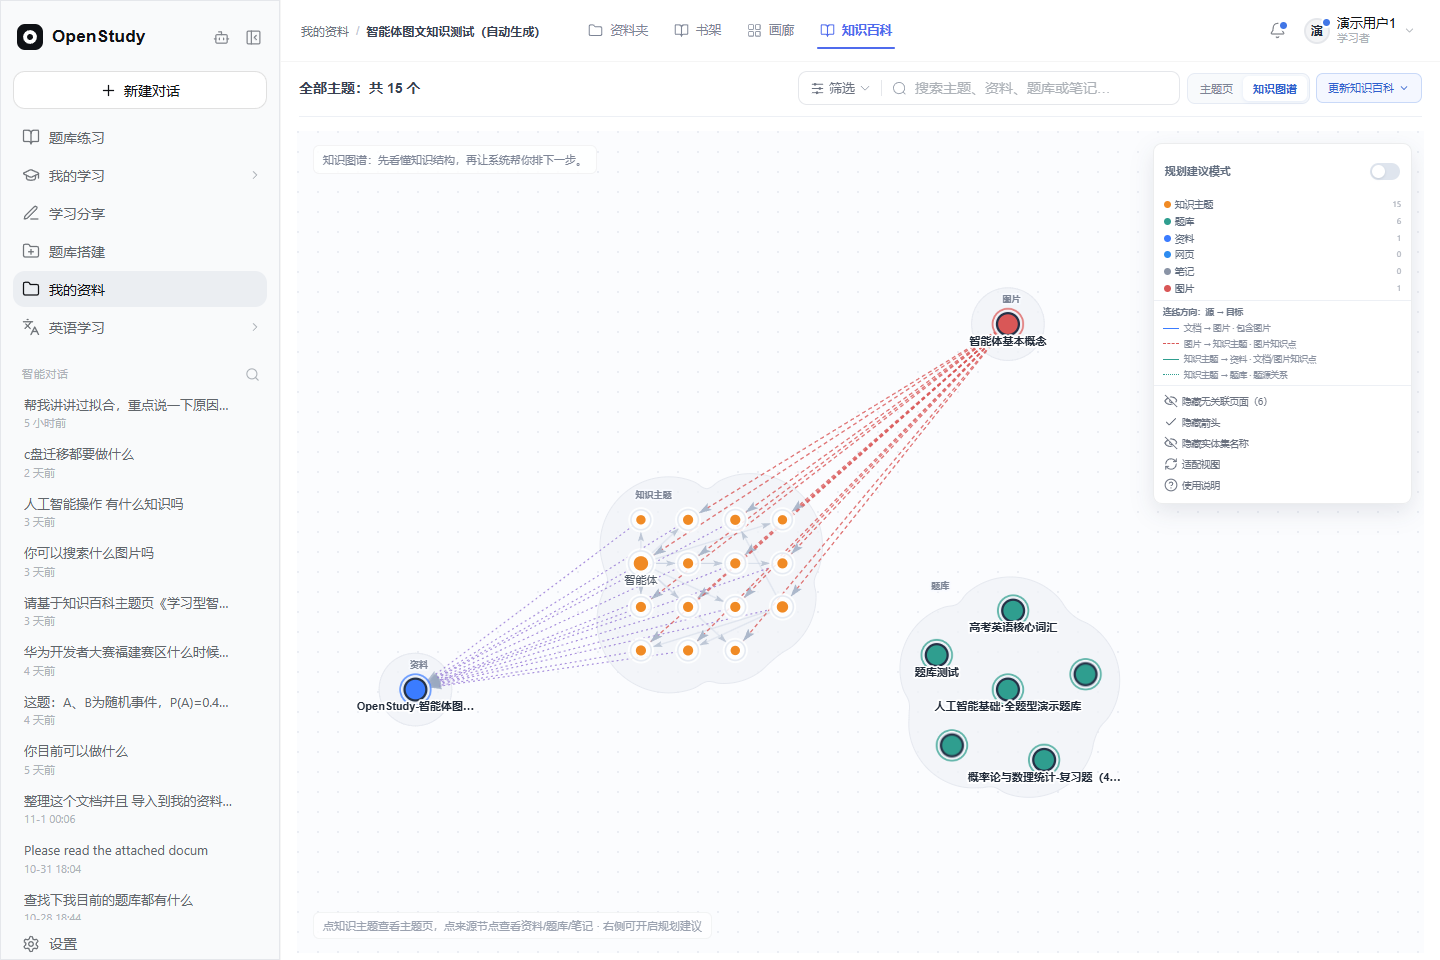
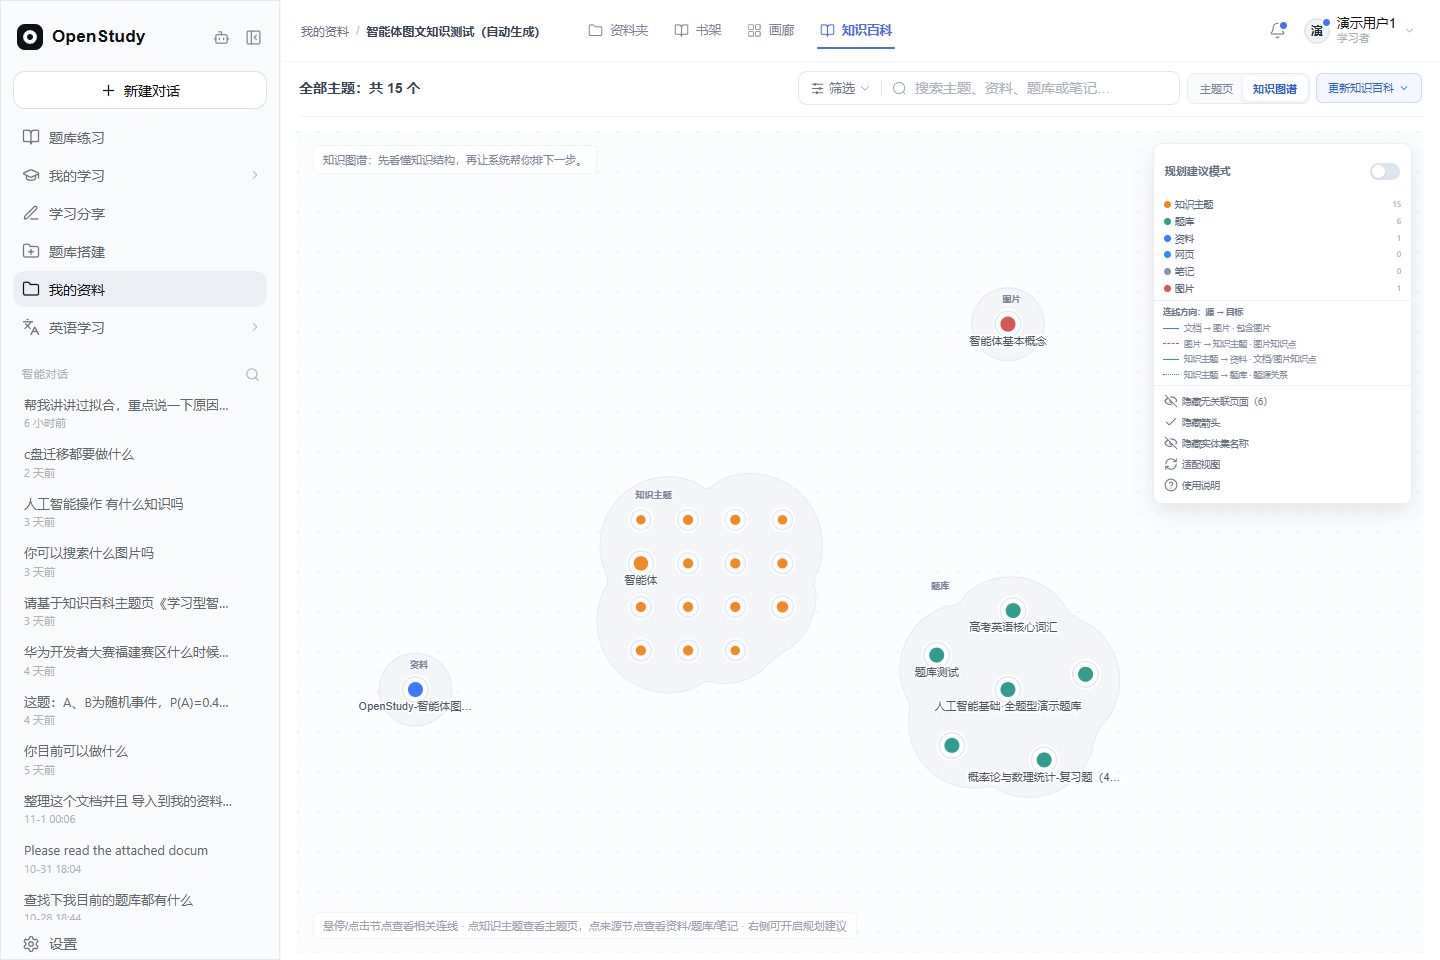
perf: hide graph edges until node interaction

diff --git a/openstudy-vue3-ts/src/views/front/workspace/components/KnowledgeWikiPanel.vue b/openstudy-vue3-ts/src/views/front/workspace/components/KnowledgeWikiPanel.vue
@@ -201,7 +201,7 @@
             </button>
           </template>
         </aside>
-        <div v-if="!adviceMode" class="kw-graph-hint"><span>点知识主题查看主题页，点来源节点查看资料/题库/笔记 · 右侧可开启规划建议</span></div>
+        <div v-if="!adviceMode" class="kw-graph-hint"><span>悬停/点击节点查看相关连线 · 点知识主题查看主题页，点来源节点查看资料/题库/笔记 · 右侧可开启规划建议</span></div>
       </div>
       <KnowledgeAdviceHost
         ref="adviceHostRef"
@@ -1041,6 +1041,10 @@ const mapNodes = computed(() => {
 })
 
 const mapEdges = computed(() => {
+  // 首屏不画线：只有悬停/选中某个节点，或处于学习路线时才显示相关连线。
+  // 这样 100+ 节点的资料夹不会一进来就因为几百条 SVG 线卡住。
+  const focusId = mapHoveredId.value || mapSelectedNodeId.value
+  if (!focusId && !routeActive.value) return []
   const positions = new Map(mapNodes.value.map((node: any) => [String(node.id), node]))
   const imageIds = new Set(
     allMapNodes.value
@@ -1082,7 +1086,11 @@ const mapEdges = computed(() => {
   for (const edge of edges) {
     if (!unique.has(edge.key)) unique.set(edge.key, edge)
   }
-  return [...unique.values()]
+  const visible = [...unique.values()]
+  if (focusId) {
+    return visible.filter((edge: any) => edge.source === focusId || edge.target === focusId)
+  }
+  return visible
 })
 
 const visibleLabelIds = computed(() => {
@@ -1512,6 +1520,7 @@ function onMapNodeLeave(node: any) {
 
 function isMapSelected(node: any) {
   if (mapSelectedNodeId.value) return String(node.id) === mapSelectedNodeId.value
+  if (mapSelectedPageId.value == null) return false
   return Number(node.pageId) === Number(mapSelectedPageId.value)
 }
 

diff --git a/doc/planning/知识图谱图片-文档-知识点关系-实施记录.md b/doc/planning/知识图谱图片-文档-知识点关系-实施记录.md
@@ -17,7 +17,8 @@
 - 上传后后台自动生成 `displayName` 短名称和 `caption` 描述，并抽取图片知识点；
 - 知识百科「按来源更新」下拉现在能识别独立图片资产（`assetId`）；
 - 点击任意主题/题库/资料/网页/笔记/图片节点后，规划建议抽屉立即进入「生成中」，不再先显示历史记录；
-- 规划建议支持以 `topic:` / `bank:` / `doc:` / `web:` / `note:` / `image:` 节点作为 seed。
+- 规划建议支持以 `topic:` / `bank:` / `doc:` / `web:` / `note:` / `image:` 节点作为 seed；
+- 知识图谱首屏默认不渲染关系线，只有悬停/选中节点时才显示该节点的相邻关系，避免 100+ 节点资料夹初始加载几百条 SVG 线导致卡顿。
 
 ### 1.2 图片命名
 
@@ -107,6 +108,7 @@
 - `doc/screenshots/119-test-doc-graph.png`
 - `doc/screenshots/120-test-doc-graph-wide.png`
 - `doc/screenshots/121-kb604-doc-images-hidden.png`
+- `doc/screenshots/122-kb604-initial-no-edges.png`
 - `doc/screenshots/117-graph-spacing.png`
 - `doc/screenshots/118-graph-zoom-labels.png`
 
